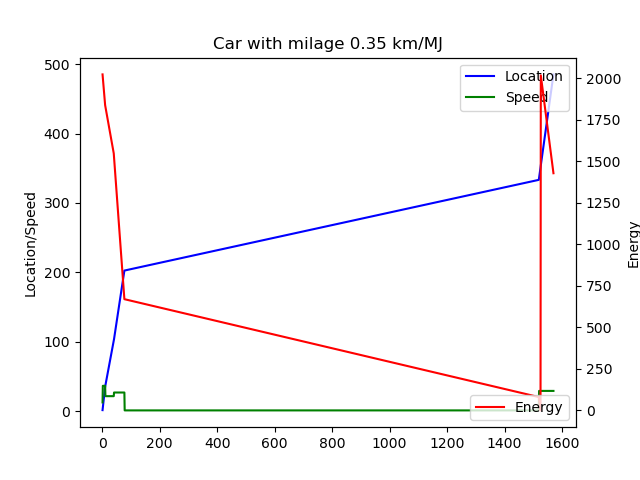
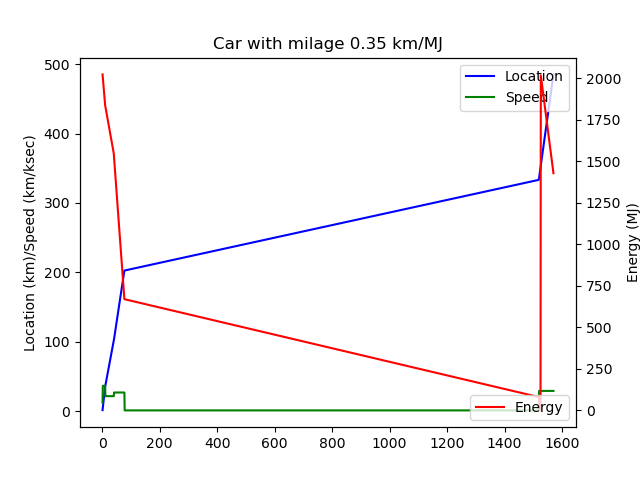
fix units in plots

Changed region(s): [[0.0312, 0.2812, 0.0625, 0.7188], [0.9688, 0.4062, 1.0, 0.5938]]

diff --git a/Cars_and_UAVs.py b/Cars_and_UAVs.py
@@ -25,9 +25,9 @@ def plot_vehicle(vehicle, filename):
     ax = fig.add_subplot(111)
     ax.plot(log_colums[0], log_colums[1], label='Location', color='blue')
     ax.plot(log_colums[0], log_colums[3], label='Speed', color='green')
-    plt.ylabel('Location/Speed')
+    plt.ylabel('Location (km)/Speed (km/ksec)')
     ax2= ax.twinx()
-    ax2.set_ylabel('Energy')
+    ax2.set_ylabel('Energy (MJ)')
     ax2.plot(log_colums[0], log_colums[2], label='Energy', color='red')
     ax.legend(loc='upper right')
     ax2.legend(loc='lower right')
@@ -52,10 +52,11 @@ def main():
 
     for i, vehicle in enumerate(vehicle_list):
         vehicle.add_trip(trips[i])
+        initial_energy = vehicle.E_avail
         vehicle.Go()
+        # Plot the vehicle log
         plot_vehicle(vehicle, str(i)+".png")
         vehicle.reset()
-
 
 
 # Run the program

diff --git a/vehicles.py b/vehicles.py
@@ -134,6 +134,7 @@ class Car(Vehicle):
             self.ReEnergize()
             self.Tanks += 1
             self.loc, Arrived = self.Go_until_No_Go(self.loc)
+        print(self.loc)
 
         # Output trip info
         print("Car trip completed with", self.Tanks, "tank needed")
